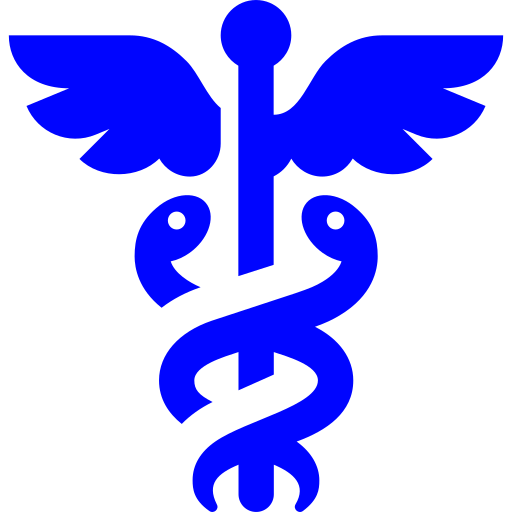
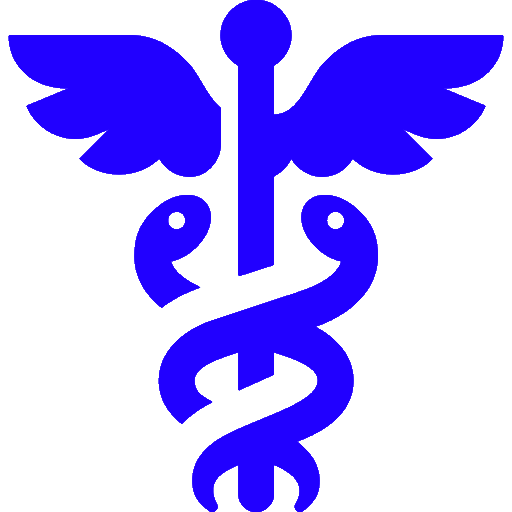
pre Spawners

diff --git a/src/Utilis/roles.js b/src/Utilis/roles.js
@@ -1,5 +1,4 @@
 import { getDistance, findClosestTeammate, moveTowardOpponent, healTeammate } from "./abilities";
-
 export const roles = {
   civilian: {
     speed: 1,
@@ -57,6 +56,23 @@ export const roles = {
     behavior: (organism, organisms, opponent, obstacles) => {
       if (opponent && getDistance(organism, opponent) < 15) {
         if (Math.random() < 0.5) {
+          opponent.health -= 3;
+          if (opponent.health <= 0) opponent.isAlive = false;
+        }
+      } else if (opponent) {
+        organism = moveTowardOpponent(organism, opponent, obstacles);
+      }
+      return organism;
+    },
+  }, 
+  elephant: {
+    speed: 0.5,
+    health: 10,
+    cost: 30,
+    behaviorType: 'seeker',
+    behavior: (organism, organisms, opponent, obstacles) => {
+      if (opponent && getDistance(organism, opponent) < 15) {
+        if (Math.random() < 0.5) {
           opponent.health -= 10;
           if (opponent.health <= 0) opponent.isAlive = false;
         }
@@ -98,6 +114,29 @@ export const roles = {
       const teammate = findClosestTeammate(organism, organisms);
       if (teammate) {
         organism = moveTowardOpponent(organism, teammate, obstacles);
+      } else {
+        const newPosX = organism.position.x + Math.random() * 5 - 2.5;
+        const newPosY = organism.position.y + Math.random() * 5 - 2.5;
+        return {
+          ...organism,
+          position: { x: newPosX, y: newPosY },
+        };
+      }
+      return organism;
+    },
+  },
+  banner: {
+    speed: 10,
+    health: 5,
+    cost: 5,
+    behaviorType: 'protector',
+    behavior: (organism, organisms, opponent, obstacles) => {
+      const teammate = healTeammate(organism, organisms);
+      if (teammate) {
+        organism = moveTowardOpponent(organism, teammate, obstacles);
+        if (Math.random() < 0.5 && getDistance(organism, teammate) < 10) {
+          teammate.health += 5;
+        }
       } else {
         const newPosX = organism.position.x + Math.random() * 5 - 2.5;
         const newPosY = organism.position.y + Math.random() * 5 - 2.5;
@@ -167,4 +206,30 @@ export const roles = {
       return organism;
     },
   },
+  barrack: {
+    speed: 0,
+    health: 10,
+    cost: 0,
+    behaviorType: 'spawner', 
+    behavior: (organism, organisms) => {
+      if (organism) {
+        const newLegionnaire = {
+          id: `legionnaire-${Date.now()}`,
+          type: organism.type, // Same team as the barracks
+          role: 'legionnaire', // Legionnaire role
+          position: {
+            x: organism.position.x + Math.random() * 20 - 10, // Small random offset near the barracks
+            y: organism.position.y + Math.random() * 20 - 10,
+          },
+          isAlive: true,
+          health: roles.legionnaire.health,
+          speed: roles.legionnaire.speed,
+        };
+
+        // Add the new legionnaire to the organisms array using setOrganisms
+        setOrganisms((prevOrganisms) => [...prevOrganisms, newLegionnaire]);
+      }
+    },
+  },
+
 };

diff --git a/src/Components/Banner/Banner.jsx b/src/Components/Banner/Banner.jsx
@@ -1,4 +1,4 @@
-import React, { useState } from 'react';
+import { useState } from 'react';
 import './Banner.css'; 
 
 const Banner = ({ aliveRed, aliveBlue, onStartSimulation }) => {
@@ -9,8 +9,7 @@ const Banner = ({ aliveRed, aliveBlue, onStartSimulation }) => {
   const [shieldBearerCount, setShieldBearerCount] = useState(0);
   const [archerCount, setArcherCount] = useState(0);
   const [shiptCount, setShipCount] = useState(0);
-
-  const totalCost = legionnaireCount * 1 + medicCount * 2 + centurionCount * 3 +archerCount * 3 + kingCount * 10 + shieldBearerCount * 5 + shiptCount * 15;
+  const [elephantCount, setElephantCount] = useState(0);
 
   const handleStart = () => {
     const unitCounts = {
@@ -21,6 +20,9 @@ const Banner = ({ aliveRed, aliveBlue, onStartSimulation }) => {
       shieldBearer: shieldBearerCount,
       archer: archerCount,
       romanShip: shiptCount,
+      elephant: elephantCount,
+      banner: 1,
+      barrack: 2,
     };
     onStartSimulation(unitCounts);
   };
@@ -77,6 +79,14 @@ const Banner = ({ aliveRed, aliveBlue, onStartSimulation }) => {
           </div>
         </div>
         <div className='UnitSelector'>
+          <img src="src/assets/DeadState/elephantDead.png" alt="elephant" />
+          <label>{elephantCount}</label>
+          <div className="controls">
+            <button onClick={() => setElephantCount(Math.max(elephantCount + 5, 0))}>+</button>
+            <button onClick={() => setElephantCount(Math.max(elephantCount - 5, 0))}>-</button>
+          </div>
+        </div>
+        <div className='UnitSelector'>
           <img src="src/assets/DeadState/shieldBearerDead.png" alt="Shield Bearer" />
           <label>{shieldBearerCount}</label>
           <div className="controls">
@@ -89,10 +99,6 @@ const Banner = ({ aliveRed, aliveBlue, onStartSimulation }) => {
         <button className="start-button" onClick={handleStart}>
           Start Simulation
         </button>
-      </div>
-
-      <div className="CostDiv">
-        <p>Total Cost: {totalCost}</p>
       </div>
 
       <div className="simulation-box">

diff --git a/src/Components/Dashboard/Dashboard.jsx b/src/Components/Dashboard/Dashboard.jsx
@@ -33,27 +33,38 @@ const Dashboard = () => {
 
   useEffect(() => {
     const interval = setInterval(() => {
+      const currentTime = Date.now(); 
+  
       setOrganisms((prevOrganisms) => {
         const shuffledOrganisms = shuffleArray([...prevOrganisms]);
-
+  
         return shuffledOrganisms.map((organism) => {
           if (!organism.isAlive) return organism;
-
+  
           const role = roles[organism.role];
           let updatedOrganism = organism;
           let opponent = null;
-
-          if (role.behaviorType === 'seeker') {
+  
+          if (role.behaviorType === 'spawner') {
+            updatedOrganism = role.behavior(organism, shuffledOrganisms, currentTime);
+          } 
+          else if (role.behaviorType === 'seeker') {
             opponent = findClosestOpponent(organism, shuffledOrganisms.filter(o => o.type !== organism.type && o.isAlive));
-          } else if (role.behaviorType === 'protector') {
-            opponent = findClosestTeammate(organism, shuffledOrganisms.filter(o => o.type === organism.type && o.isAlive && o.health < 3));
+            updatedOrganism = role.behavior(organism, shuffledOrganisms, opponent, obstacles);
           }
-
-          updatedOrganism = role.behavior(organism, shuffledOrganisms, opponent, obstacles);
+          else if (role.behaviorType === 'protector') {
+            opponent = findClosestTeammate(organism, shuffledOrganisms.filter(o => o.type === organism.type && o.isAlive && o.health < 3));
+            updatedOrganism = role.behavior(organism, shuffledOrganisms, opponent, obstacles);
+          } 
+          else {
+            updatedOrganism = role.behavior(organism, shuffledOrganisms, opponent, obstacles);
+          }
+  
           return updatedOrganism;
         });
       });
-    }, 50);
+    }, 50); 
+  
 
     return () => clearInterval(interval);
   }, [organisms, obstacles]);

diff --git a/src/Utilis/IconRedirector.js b/src/Utilis/IconRedirector.js
@@ -22,7 +22,15 @@ import archerDead from '../assets/DeadState/archerDead.png';
 import romanShipBlue from "../assets/BlueTeam/romanShipBlue.png";
 import romanShipRed from '../assets/RedTeam/romanShipRed.png';
 import romanShipDead from '../assets/DeadState/romanShipDead.png';
-
+import elephantBlue from "../assets/BlueTeam/elephantBlue.png";
+import elephantRed from '../assets/RedTeam/elephantRed.png';
+import elephantDead from '../assets/DeadState/elephantDead.png';
+import bannerBlue from "../assets/BlueTeam/bannerBlue.png";
+import bannerRed from '../assets/RedTeam/bannerRed.png';
+import bannerDead from '../assets/DeadState/bannerDead.png';
+import barracksBlue from "../assets/Structures/barrackBlue.png";
+import barracksRed from '../assets/Structures/barrackRed.png';
+import barracksDead from '../assets/Structures/barrackDead.png';
 export const roleIcons = {
   legionnaire: {
     alive: {
@@ -79,9 +87,28 @@ export const roleIcons = {
       red: romanShipRed,
     },
     dead: romanShipDead,
+  },
+  elephant: {
+    alive: {
+      blue: elephantBlue,
+      red: elephantRed,
+    },
+    dead: elephantDead,
+  },
+  banner: {
+    alive: {
+      blue: bannerBlue,
+      red: bannerRed,
+    },
+    dead: bannerDead,
+  },
+  barrack: {
+    alive: {
+      blue: barracksBlue,
+      red: barracksRed,
+    },
+    dead: barracksDead,
   }
 };
 
-export const ObstacleIcons = {
 
-};

diff --git a/README.md b/README.md
@@ -1,2 +1,5 @@
 # React + Vite
 #585858 Terrain Color
+#B1B1B1 Death Color
+#FF0000 RedTeam
+#2100FF BlueTeam
